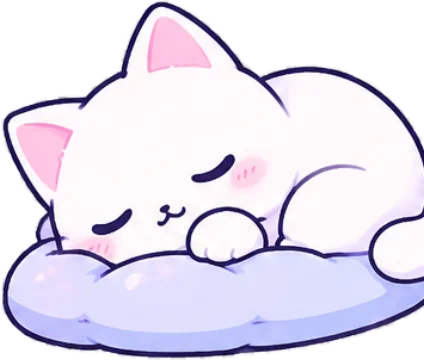
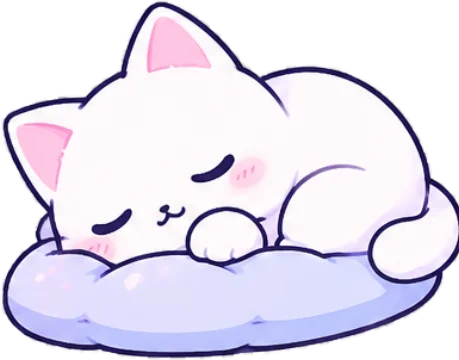
Put the sleeping cat on the game card instead of the cheering one and recut it whole

Changed region(s): [[0.0, 0.0, 1.0, 1.0], [0.4906, 0.8556, 0.6439, 0.9167], [0.6745, 0.3056, 0.7052, 0.3361]]

diff --git a/src/game/redesign.css b/src/game/redesign.css
@@ -72,7 +72,7 @@
 .game .gx-body .chip.on { color: #fff; background: linear-gradient(90deg, #7d6bf0, #9a86f5); }
 .gx-center { min-width: 0; grid-column: 1; }
 .game .card { background: var(--panel); border: 1px solid #fff; border-radius: 28px; box-shadow: var(--shadow); overflow: visible; }
-.gx-cat-card { position: absolute; top: -26px; right: 26px; width: clamp(110px, 10vw, 150px); }
+.gx-cat-card { position: absolute; bottom: calc(100% - 12px); right: 34px; width: clamp(110px, 8.5vw, 140px); z-index: 2; }
 .gx-actions { display: flex; flex-wrap: wrap; gap: 12px; margin-top: 14px !important; }
 .game .gx-actions .ghost, .game .gx-actions .helpbtn { display: inline-flex; align-items: center; gap: 10px; padding: 12px 22px; font-weight: 600; color: var(--ink);
   background: var(--glass); border: 1px solid #fff; border-radius: 16px; box-shadow: 0 8px 22px rgba(100, 87, 170, .14); }
@@ -88,7 +88,6 @@
 .game .gx-stats .loaf { border: 0; padding: 0; margin: 12px 0; }
 .game .gx-stats .lvl, .game .gx-stats .goal { border: 0; padding: 0; margin: 12px 0; }
 .game .gx-stats .goal .bar i { background: linear-gradient(90deg, #3aa86c, #2f9a5f); }
-.game .gx-cat-sleep { position: fixed; right: 10px; bottom: -8px; width: clamp(110px, 8.5vw, 140px); z-index: 5; }
 
 @media (max-width: 1100px) {
   .game.gx { grid-template-columns: 1fr; }
@@ -102,8 +101,6 @@
 }
 @media (max-width: 560px) { .gx-tools { gap: 8px; } .game .gx-tools .game-menu { margin-right: 0; } .game .game-top.gx-top { flex-wrap: wrap; } }
 
-/* таймер занятий на этой странице уходит левее котика */
-body.on-game .stm { right: clamp(150px, 12vw, 200px); bottom: 14px; }
 
 /* тёмная тема */
 html[data-theme='dark'] .game.gx { --glass: rgba(30, 32, 70, .72); --panel: rgba(32, 34, 72, .9);
@@ -117,6 +114,3 @@ html[data-theme='dark'] .game .gx-drop .gx-me, html[data-theme='dark'] .game .gx
 html[data-theme='dark'] .gx-di kbd { background: rgba(255, 255, 255, .1); }
 .game .gi.gq { display: grid; place-items: center; width: 22px; height: 22px; font-size: 14px; border: 1.5px solid currentColor; border-radius: 50%; }
 
-/* подсказка режима не залезает под котика на карточке */
-.game .gx-body .card .mhelp { max-width: calc(100% - clamp(120px, 11vw, 170px)); }
-@media (max-width: 700px) { .game .gx-cat-card { width: 84px; top: -34px; right: 12px; } .game .gx-body .card .mhelp { max-width: none; } }

diff --git a/src/views/GameView.vue b/src/views/GameView.vue
@@ -11,7 +11,6 @@ import Avatar from '@/components/Avatar.vue'
 import { themeDark, toggleTheme } from '@/lib/theme'
 import catSleep from '@/assets/game/cat-sleep.webp'
 import catWow from '@/assets/game/cat-wow.webp'
-import catCheer from '@/assets/game/cat-cheer.webp'
 import bg from '@/assets/game/bg.webp'
 import '@/assets/home/fonts.css'
 import '@/assets/sky.css'
@@ -19,7 +18,7 @@ import '@/game/game.css'
 import '@/game/redesign.css'
 
 const progress = useProgressStore()
-const markup = markupRaw.replace('CAT_BOOK', catCheer).replace('CAT_SLEEP', catSleep)
+const markup = markupRaw.replace('CAT_SLEEP', catSleep)
 const bgStyle = { '--gx-bg': `url(${bg})` }
 
 /** Меню профиля справа вверху (аватар): открывается по нажатию, закрывается по Esc и нажатию мимо. */

diff --git a/src/game/markup.html b/src/game/markup.html
@@ -3,7 +3,7 @@
 
   <div class="gx-center">
     <section class="card" id="cardWrap">
-      <img class="gx-cat gx-cat-card" src="CAT_BOOK" alt="" aria-hidden="true">
+      <img class="gx-cat gx-cat-card" src="CAT_SLEEP" alt="" aria-hidden="true">
       <div class="timer" id="timer"><i id="timerBar"></i></div>
       <div class="lives" id="lives"></div>
       <div id="card"></div>
@@ -57,7 +57,6 @@
     <div class="list" id="list"></div>
     <div class="muted" style="font-size:12px;margin-top:8px" id="allTime"></div>
   </aside>
-  <img class="gx-cat gx-cat-sleep" src="CAT_SLEEP" alt="" aria-hidden="true">
 </div>
 
 <div class="over" id="over"><div class="box" role="dialog" aria-modal="true" aria-labelledby="overT">
